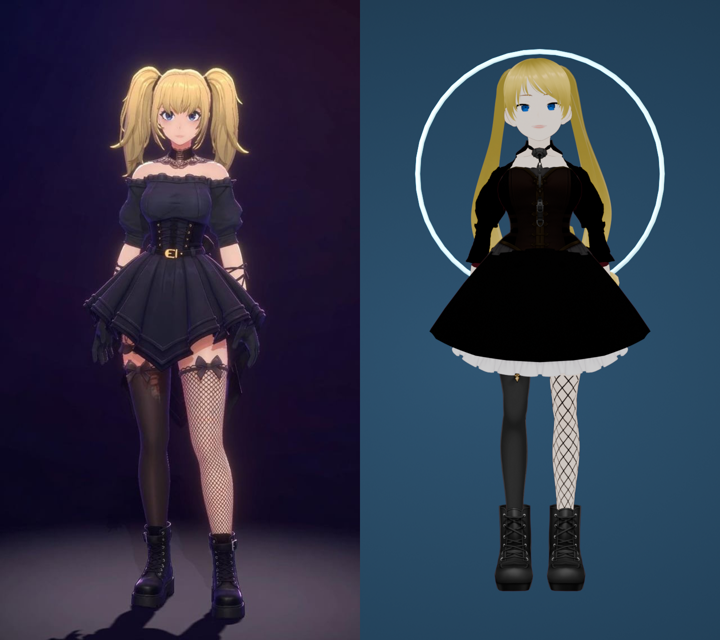
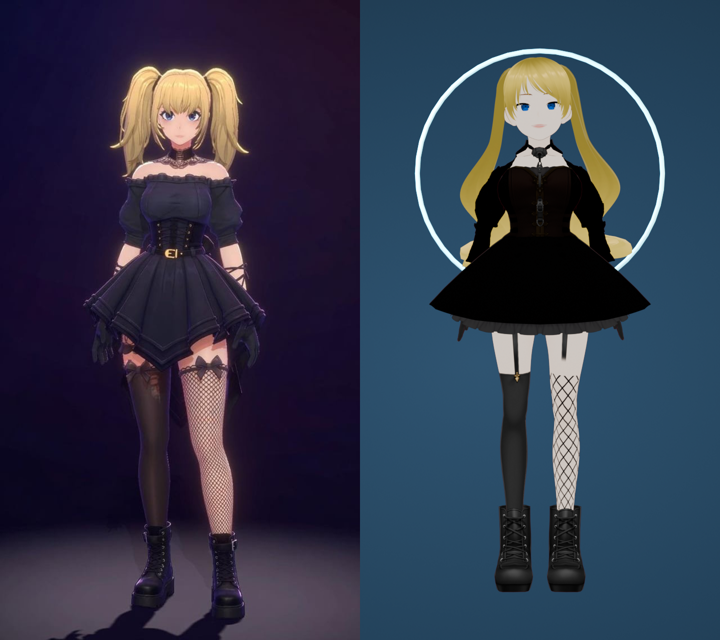
Refine the VRoid goth agent in Blender: black petticoat, bouncy tails, shorter skirt
Claude-Session: https://claude.ai/code/session_011M9r3rTGgXhm4baeKDbpr3

diff --git a/build/tools/blender-agent-refine.py b/build/tools/blender-agent-refine.py
@@ -1,0 +1,65 @@
+#!/usr/bin/env python3
+"""Refine the VRoid goth agent after import (see design/blender/agent/README.md).
+
+  blender -b --python build/tools/blender-agent-refine.py -- --blend IN.blend --out OUT.blend
+      [--petticoat 0.05] [--tail-shrink 0.72] [--tail-wave 0.055] [--tail-flare 1.7] [--skirt-shrink 0.72]
+
+Works on the scene blender-agent-avatar.py saves (its agent.blend): recolours the skirt's
+white petticoat material, compresses + waves + widens the twin tails, and shortens the skirt.
+Mesh edits are in object space on the VRoid meshes, so the rig, weights and shape keys are untouched.
+"""
+import bpy, sys, math, argparse
+from mathutils import Vector
+
+p = argparse.ArgumentParser()
+p.add_argument('--blend', required=True); p.add_argument('--out', required=True)
+p.add_argument('--petticoat', type=float, default=0.05)
+p.add_argument('--tail-shrink', type=float, default=0.72); p.add_argument('--tail-wave', type=float, default=0.055)
+p.add_argument('--tail-flare', type=float, default=1.7); p.add_argument('--skirt-shrink', type=float, default=0.72)
+a = p.parse_args(sys.argv[sys.argv.index('--') + 1:])
+bpy.ops.wm.open_mainfile(filepath=a.blend)
+
+def mtoon_set(mat, key, rgb):
+    for n in mat.node_tree.nodes:
+        if n.type == 'GROUP' and key in n.inputs:
+            n.inputs[key].default_value = (*rgb, 1.0); return True
+    return False
+
+body = bpy.data.objects['Body']; hair = bpy.data.objects['Hair']
+# --- petticoat: the white CLOTH_03 material of the skirt preset -> near black (texture still multiplies, so the lace reads)
+for m in body.data.materials:
+    if m and 'N00_002_03_Tops_01_CLOTH_03' in m.name:
+        ok = mtoon_set(m, 'Lit Color', (a.petticoat,) * 3); mtoon_set(m, 'Shade Color', (a.petticoat * 0.6,) * 3)
+        print('PETTICOAT', m.name, 'recoloured' if ok else 'NO MTOON GROUP')
+
+# --- twin tails: hair verts below the ears and off-centre. Compress toward the tie point, add an S-wave, widen.
+me = hair.data
+tail = [v for v in me.vertices if v.co.z < 1.40 and abs(v.co.x) > 0.05]
+top = max(v.co.z for v in tail); bottom = min(v.co.z for v in tail); span = top - bottom
+for side in (-1, 1):
+    vs = [v for v in tail if (v.co.x > 0) == (side > 0)]
+    cx = sum(v.co.x for v in vs) / len(vs)
+    for v in vs:
+        t = (top - v.co.z) / span                      # 0 at the tie, 1 at the tip
+        z = top - (top - v.co.z) * a.tail_shrink       # shorter
+        x = cx + (v.co.x - cx) * (1 + (a.tail_flare - 1) * t)   # fuller toward the tip
+        x += side * a.tail_wave * math.sin(t * math.pi * 2.2) * t   # S-wave that grows down the tail
+        y = v.co.y + a.tail_wave * 0.6 * math.sin(t * math.pi * 2.2 + 1.3) * t
+        v.co = Vector((x, y, z))
+print('TAILS', len(tail), 'verts, span %.2f -> %.2f' % (span, span * a.tail_shrink))
+
+# --- skirt: outer skirt (CLOTH_01) + petticoat (CLOTH_03) compressed toward the waist
+me = body.data
+idx = {i for i, m in enumerate(me.materials) if m and ('N00_002_03_Tops_01_CLOTH_01' in m.name or 'N00_002_03_Tops_01_CLOTH_03' in m.name)}
+sv = set()
+for poly in me.polygons:
+    if poly.material_index in idx: sv.update(poly.vertices)
+waist = max(me.vertices[i].co.z for i in sv)
+for i in sv:
+    v = me.vertices[i]; v.co.z = waist - (waist - v.co.z) * a.skirt_shrink
+print('SKIRT', len(sv), 'verts, waist %.2f' % waist)
+for o in (body, hair):
+    if o.data.shape_keys:   # VRoid meshes with keys: Basis must follow, or the edit is invisible
+        for k in o.data.shape_keys.key_blocks:
+            for i, v in enumerate(o.data.vertices): k.data[i].co = v.co
+bpy.ops.wm.save_as_mainfile(filepath=a.out); print('SAVED', a.out)

diff --git a/design/blender/agent/README.md b/design/blender/agent/README.md
@@ -109,6 +109,22 @@ script's key lookup accepts both. `vroid-full.png` and `vroid-bust.png` are
 the renders, `vroid-compare.png` puts the reference beside the model, and
 `vroid-speaking.png` is a frame from her clip.
 
-Still open against the picture: the skirt's white petticoat (its shader
-colour rows in the texture editor did not take), the tails could be wavier
-and shorter, and the skirt shorter and layered.
+The last three gaps are closed in Blender rather than VRoid Studio, by
+`build/tools/blender-agent-refine.py`, which runs on the scene the avatar
+script saves: it recolours the petticoat material (the white
+`N00_002_03_Tops_01_CLOTH_03`) near black, compresses the twin tails toward
+the tie, adds an S-wave that grows down each tail and widens them toward the
+tip, and compresses the skirt (outer + petticoat) toward the waist. Mesh
+edits are object-space vertex moves on the VRoid meshes, so the rig, weights
+and shape keys are untouched and the lip-sync script consumes the result
+through `--blend`:
+
+```sh
+blender -b --python build/tools/blender-agent-avatar.py -- --vrm goth-agent.vrm ... --out A --stills 1
+blender -b --python build/tools/blender-agent-refine.py -- --blend A/agent.blend --out R/agent.blend
+blender -b --python build/tools/blender-agent-avatar.py -- --blend R/agent.blend --audio line.wav \
+    --visemes line-visemes.json --out CLIP --frames
+```
+
+Remaining differences from the picture are the skirt's layering and the
+lighting, not the character.
